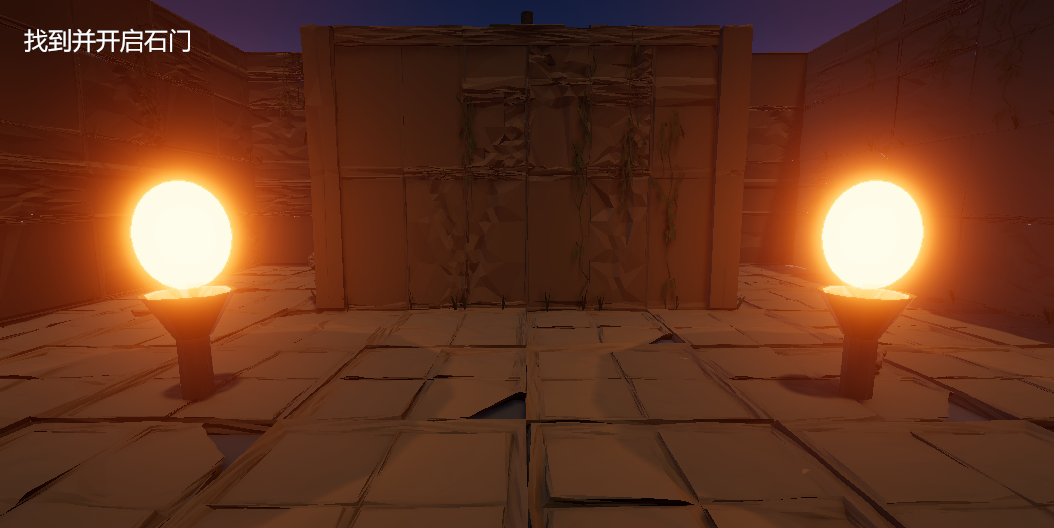
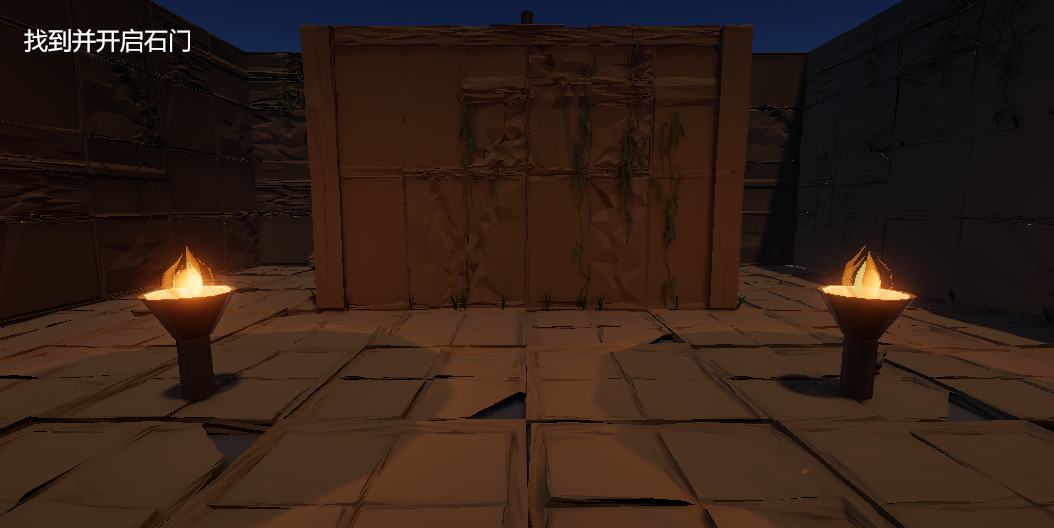
feat(M5): 火盆火焰细长化与半透明调档——细长椭圆火苗(0.2x0.3沉入盆碗) + alpha 0.5 + 径向渐变遮罩边缘渐透；贴图生成并入 PostFxSetup 幂等脚本；清理过时对比图

diff --git a/game/3D-Demo/Assets/Editor/PostFxSetup.cs b/game/3D-Demo/Assets/Editor/PostFxSetup.cs
@@ -73,7 +73,43 @@ public static class PostFxSetup
             AssetDatabase.CreateAsset(flameMat, flameMatPath);
         }
         flameMat.shader = Shader.Find("Universal Render Pipeline/Unlit");   // 兼容旧 Lit 资产迁移
-        flameMat.SetColor("_BaseColor", new Color(4.5f, 1.9f, 0.35f, 1f));  // HDR ×4.5 橙（值>1 直出过曝；实测定档）
+        flameMat.SetColor("_BaseColor", new Color(4.5f, 1.9f, 0.35f, 0.5f));  // HDR ×4.5 半透明橙（alpha 0.5；实测定档）
+        // 半透明直出：Unlit 透明混合（Blend 由属性直控，无 keyword 依赖）；关 ZWrite、进透明队列
+        flameMat.SetFloat("_Surface", 1f);
+        flameMat.SetFloat("_Blend", 0f);
+        flameMat.SetFloat("_SrcBlend", 5f);    // SrcAlpha
+        flameMat.SetFloat("_DstBlend", 10f);   // OneMinusSrcAlpha
+        flameMat.SetFloat("_ZWrite", 0f);
+        flameMat.EnableKeyword("_SURFACE_TYPE_TRANSPARENT");
+        flameMat.renderQueue = 3000;
+        // 径向渐变遮罩：中心实、向外渐透——火焰边缘半透明（生成一次后复用）
+        const string flameTexPath = "Assets/Settings/T_FlameFalloff.png";
+        var flameTex = AssetDatabase.LoadAssetAtPath<Texture2D>(flameTexPath);
+        if (flameTex == null)
+        {
+            int size = 128;
+            var tex = new Texture2D(size, size, TextureFormat.RGBA32, false);
+            for (int y = 0; y < size; y++)
+            {
+                for (int x = 0; x < size; x++)
+                {
+                    float dx = (x + 0.5f - size / 2f) / (size / 2f);
+                    float dy = (y + 0.5f - size / 2f) / (size / 2f);
+                    float a = Mathf.Clamp01(1f - Mathf.Sqrt(dx * dx + dy * dy));
+                    tex.SetPixel(x, y, new Color(1f, 1f, 1f, a * a));
+                }
+            }
+            tex.Apply();
+            System.IO.File.WriteAllBytes(Application.dataPath + "/Settings/T_FlameFalloff.png", tex.EncodeToPNG());
+            UnityEngine.Object.DestroyImmediate(tex);
+            AssetDatabase.ImportAsset(flameTexPath, ImportAssetOptions.ForceUpdate);
+            var imp = (TextureImporter)AssetImporter.GetAtPath(flameTexPath);
+            imp.alphaIsTransparency = true;
+            imp.wrapMode = TextureWrapMode.Clamp;
+            imp.SaveAndReimport();
+            flameTex = AssetDatabase.LoadAssetAtPath<Texture2D>(flameTexPath);
+        }
+        flameMat.SetTexture("_BaseMap", flameTex);
         EditorUtility.SetDirty(flameMat);
         AssetDatabase.SaveAssetIfDirty(flameMat);
 
@@ -90,8 +126,8 @@ public static class PostFxSetup
                 go.transform.SetParent(l.transform, false);
                 flame = go.transform;
             }
-            flame.localPosition = new Vector3(0f, 0.35f, 0f);    // 盆口上方——球底恰好坐在盆沿（实测定档），盆体轮廓隐约可见
-            flame.localScale = new Vector3(0.7f, 0.95f, 0.7f);   // 椭球
+            flame.localPosition = new Vector3(0f, -0.08f, 0f);   // 光团微沉入碗口（实测定档·三轮）
+            flame.localScale = new Vector3(0.2f, 0.3f, 0.2f);    // 细长椭圆火苗（三轮定档：两轮收敛后的小尺寸）
             var fr = flame.GetComponent<MeshRenderer>();
             fr.sharedMaterial = flameMat;
             fr.shadowCastingMode = UnityEngine.Rendering.ShadowCastingMode.Off;
